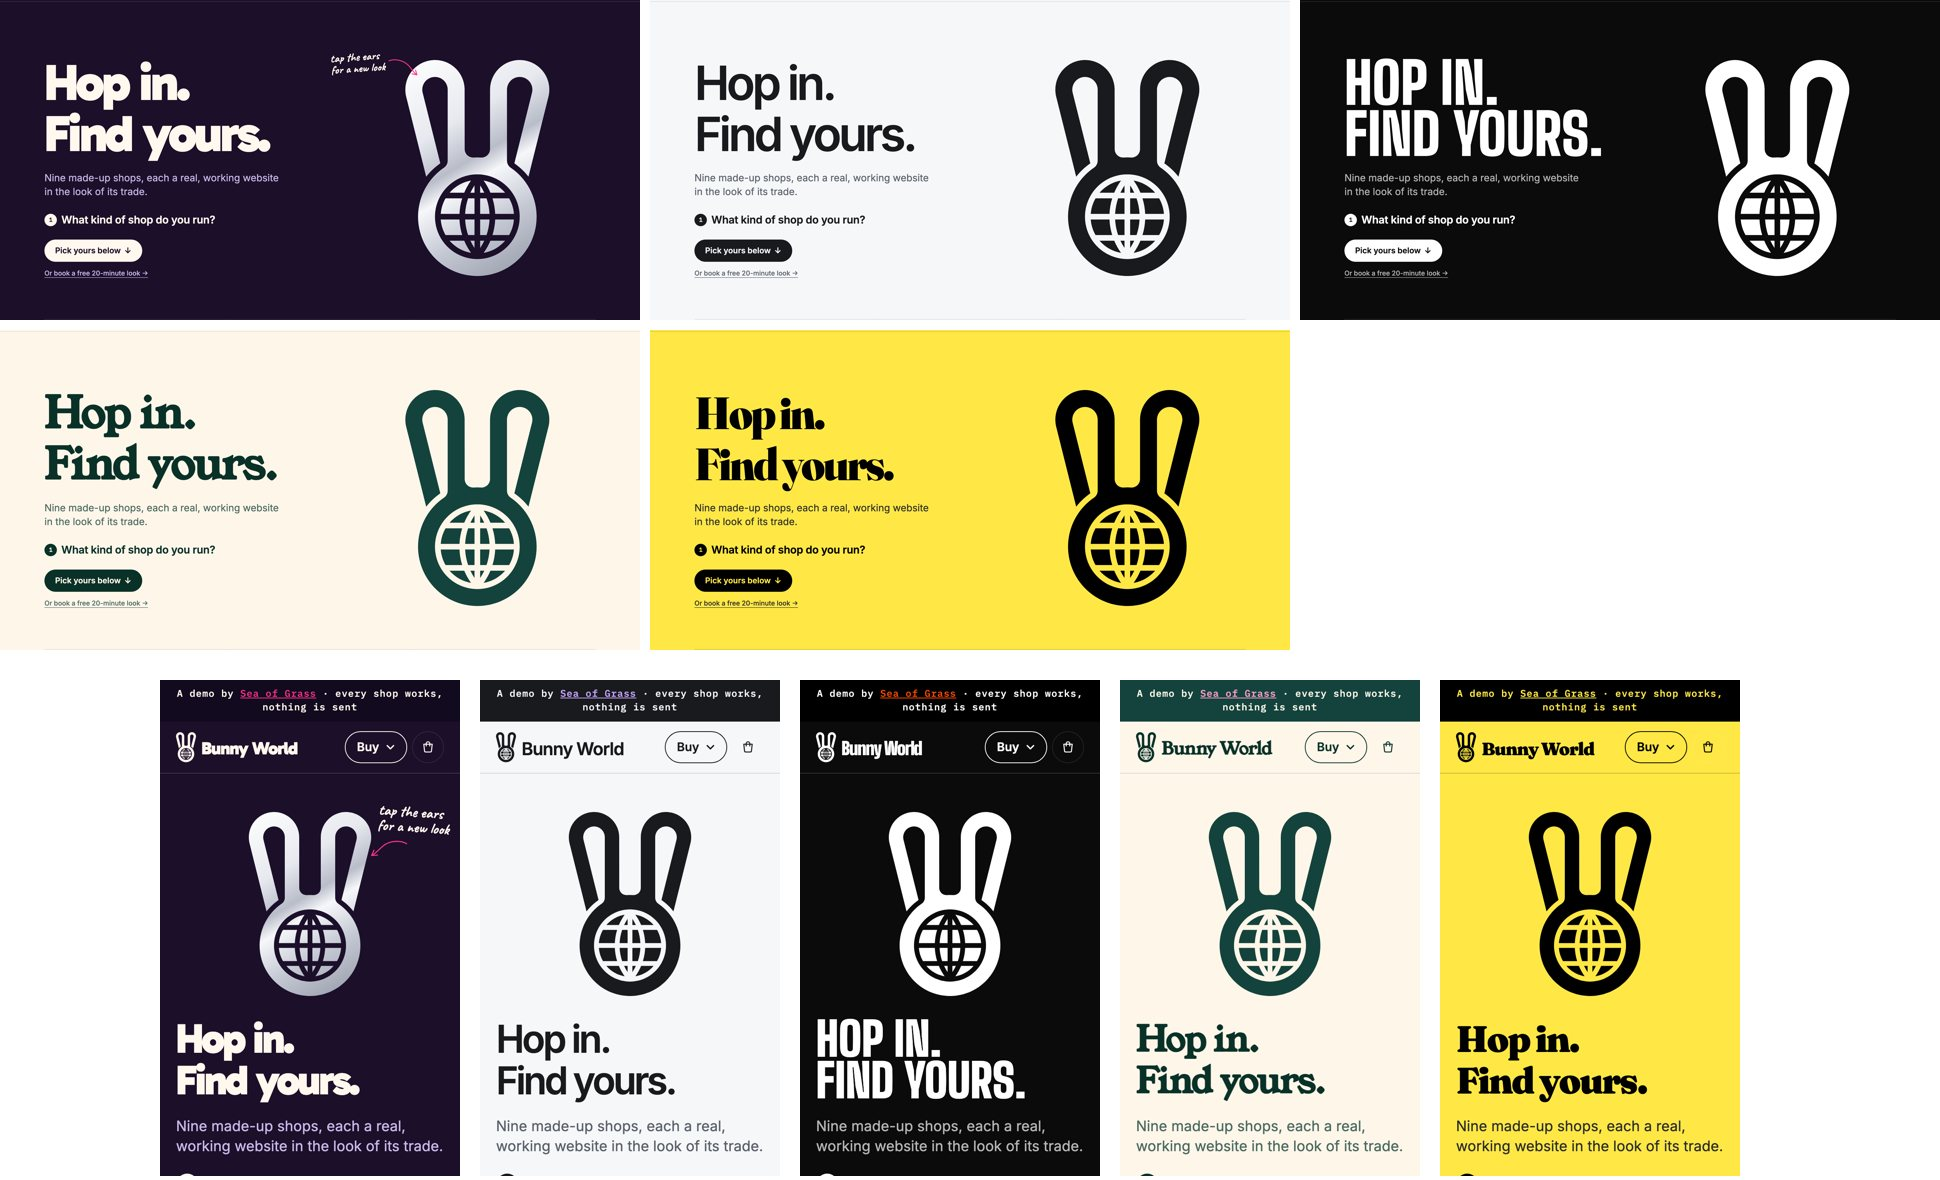
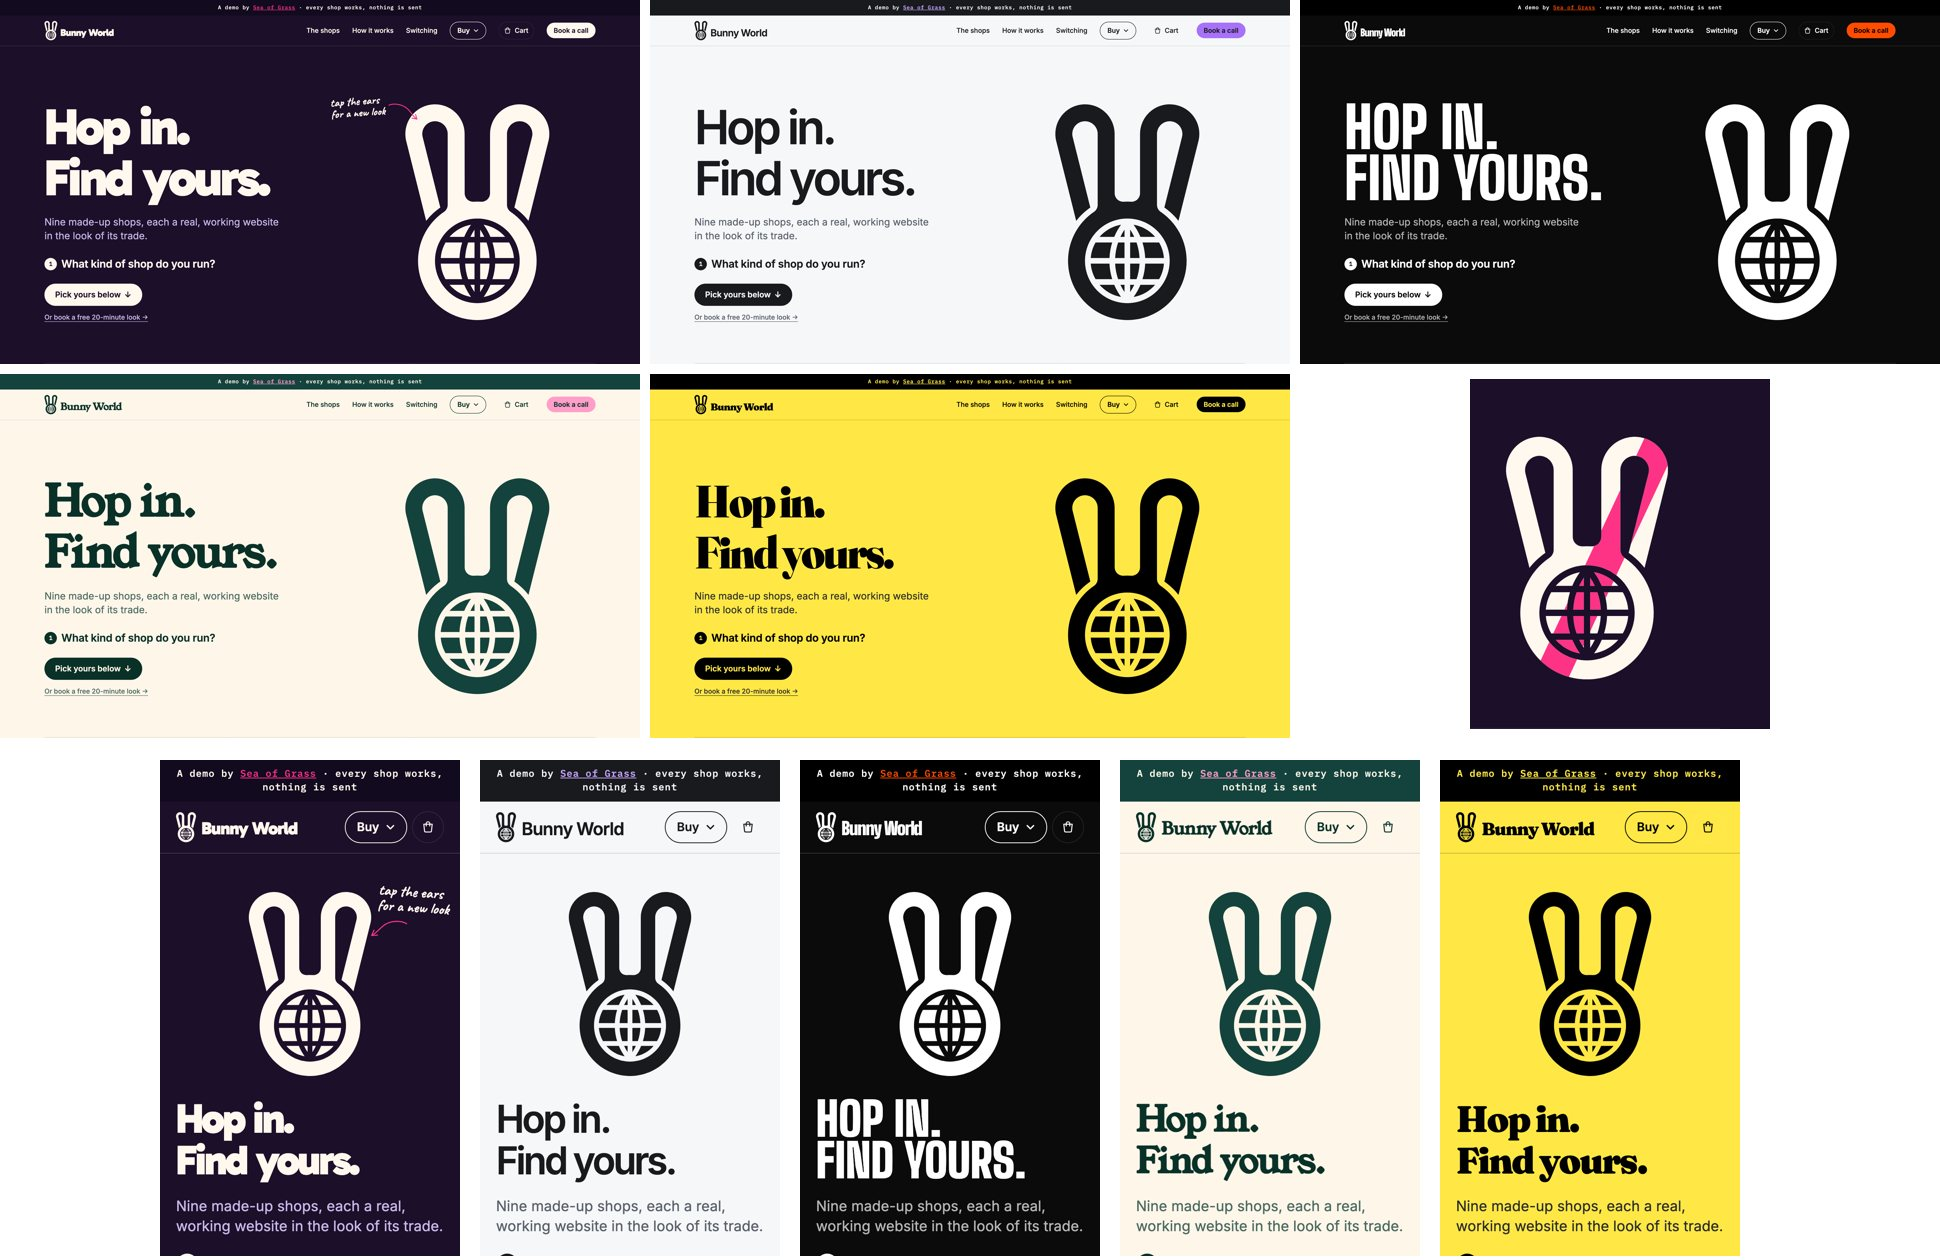
Bunny World landing: Disco's bunny is solid cream, the glint is one hard-edged band in the look's accent, and the laptop base and cart drawer are flat. No gradients left in any look.

Changed region(s): [[0.0, 0.0, 1.0, 0.9763], [0.0, 0.0, 0.0619, 0.0305], [0.2784, 0.0, 0.3093, 0.0305]]

diff --git a/preview/work/bunny-world/brand.css b/preview/work/bunny-world/brand.css
@@ -81,7 +81,7 @@ h2{font-size:clamp(34px,4.6vw,72px);line-height:.95;letter-spacing:-.04em}
 .tab[aria-selected="true"] .tn{color:var(--stage-accent);opacity:1}
 .stage{position:relative;padding:0 clamp(40px,7%,96px) clamp(30px,5%,60px) 0;min-width:0}
 .laptop .lid{background:#0d0b1c;border-radius:16px 16px 4px 4px;padding:1.6% 1.6% 2.4%;border:1px solid rgba(255,246,233,.2)}
-.laptop .base{height:14px;margin:0 -5%;background:linear-gradient(#cfcbe0,#8f8aa8);border-radius:0 0 18px 18px}
+.laptop .base{height:14px;margin:0 -5%;background:#a9a4c0;border-radius:0 0 18px 18px}
 .screen{position:relative;overflow:hidden;background:#fff}
 .laptop .screen{aspect-ratio:16/10;border-radius:4px}
 .phone{position:absolute;right:0;bottom:0;width:clamp(120px,22%,210px);padding:7px;background:#0d0b1c;border-radius:30px;border:1px solid rgba(255,246,233,.25);box-shadow:0 30px 60px rgba(0,0,0,.45)}
@@ -209,7 +209,7 @@ h2{font-size:clamp(34px,4.6vw,72px);line-height:.95;letter-spacing:-.04em}
 :root,html[data-look="disco"]{--cream:#1B0F2A;--ink:#FFF8EE;--soft:#C9B8E8;--hair:rgba(255,248,238,.16);--card:#25163A;--carrot:#FFF8EE;--on-accent:#1B0F2A;
   --stage:#120A1F;--on-stage:#FFF8EE;--stage-accent:#FF3386;--clover:#6FD3A0;--spark:#FF3386;--hf:Gabarito,system-ui,sans-serif;--hk:1;--hls:-.05em;--htt:none;
   --hero-bg:#1B0F2A;
-  --mark:linear-gradient(150deg,#ffffff 0%,#e7e9ef 30%,#b9bdc9 46%,#f6f7fa 54%,#c4c8d3 72%,#8f94a3 100%);color-scheme:dark}
+  --mark:#FFF8EE;color-scheme:dark}
 html[data-look="clean"]{--cream:#F5F7F9;--ink:#181A1D;--soft:#5B616B;--hair:rgba(24,26,29,.14);--card:#FFFFFF;--carrot:#A772F9;--on-accent:#181A1D;
   --stage:#181A1D;--on-stage:#F5F7F9;--stage-accent:#C7A5FF;--clover:#2E9E63;--spark:#A772F9;--hf:Inter,system-ui,sans-serif;--hk:.92;--hls:-.065em;--htt:none;
   --hero-bg:#F5F7F9;
@@ -246,7 +246,8 @@ html[data-look="sunny"]{--cream:#FFE845;--ink:#000000;--soft:#2B2B2B;--hair:rgba
 .lh-mark:focus-visible{outline:3px solid var(--spark);outline-offset:12px;border-radius:24px}
 .lh-fill,.lh-sweep{position:absolute;inset:0;-webkit-mask:url(brand/mark-ink.svg?v=2) center/100% 100% no-repeat;mask:url(brand/mark-ink.svg?v=2) center/100% 100% no-repeat}
 .lh-fill{background:var(--mark)}
-.lh-sweep{background:linear-gradient(115deg,transparent 40%,color-mix(in srgb,var(--spark) 0%,transparent) 44%,color-mix(in srgb,var(--spark) 60%,transparent) 48.5%,#fff 50%,color-mix(in srgb,var(--spark) 60%,transparent) 51.5%,transparent 56%);background-size:300% 100%;background-position:100% 0;opacity:0}
+/* the glint is one hard-edged solid band in the look's spark colour: no fades (Tristan: no gradients, 2026-11-15) */
+.lh-sweep{background:linear-gradient(115deg,transparent 46%,var(--spark) 46%,var(--spark) 52%,transparent 52%);background-size:300% 100%;background-position:100% 0;opacity:0}
 .lh-hint{position:absolute;left:-12%;top:4%;display:flex;align-items:flex-start;gap:2px;margin:0;color:var(--ink);font:600 26px/1 Caveat,"Comic Sans MS",cursive;letter-spacing:0;text-transform:none;pointer-events:none;opacity:0;transform:translateY(6px) rotate(-4deg);transition:opacity .4s,transform .4s}
 .lh-hint span{white-space:nowrap}
 .lh-hint svg{width:70px;height:auto;margin:20px 0 0 2px;color:var(--spark)}
@@ -261,3 +262,5 @@ html[data-look="warm"] .lh-hint svg,html[data-look="sunny"] .lh-hint svg{color:v
 @keyframes lhSweep{0%{background-position:100% 0;opacity:1}99%{opacity:1}100%{background-position:0 0;opacity:0}}
 @media (max-width:820px){.lh-grid{grid-template-columns:1fr}.lh-stage{order:-1;min-height:0;padding:4px 0}.lh-mark{height:min(30vh,230px)}
   .lh-hint{left:auto;right:-6px;top:-2%;flex-direction:column;align-items:flex-end;font-size:19px;transform:rotate(4deg)}.lh-hint.on{transform:rotate(4deg)}.lh-hint svg{width:46px;margin:2px 50px 0 0;transform:scaleX(-1) rotate(-8deg)}}
+/* the cart drawer is flat on the landing too (shared cart.css uses a dark wash) */
+.shop-drawer{background:#0A0C11}

diff --git a/preview/work/bunny-world/index.html b/preview/work/bunny-world/index.html
@@ -17,7 +17,7 @@ window.dataLayer=window.dataLayer||[];function gtag(){dataLayer.push(arguments);
 <link rel="preconnect" href="https://fonts.googleapis.com"><link rel="preconnect" href="https://fonts.gstatic.com" crossorigin>
 <link rel="stylesheet" href="https://fonts.googleapis.com/css2?family=Gabarito:wght@500;700;800;900&family=Big+Shoulders+Display:wght@900&family=Young+Serif&family=Fraunces:opsz,wght@9..144,900&family=Inter:wght@400;500;600&family=IBM+Plex+Mono:wght@500&family=Caveat:wght@600&display=swap">
 <link rel="stylesheet" href="/preview/assets/shop/cart.css">
-<link rel="stylesheet" href="brand.css?v=38">
+<link rel="stylesheet" href="brand.css?v=39">
 </head>
 <body>
 <div class="credit">A demo by <a href="/">Sea of Grass</a> &middot; every shop works, nothing is sent</div>
